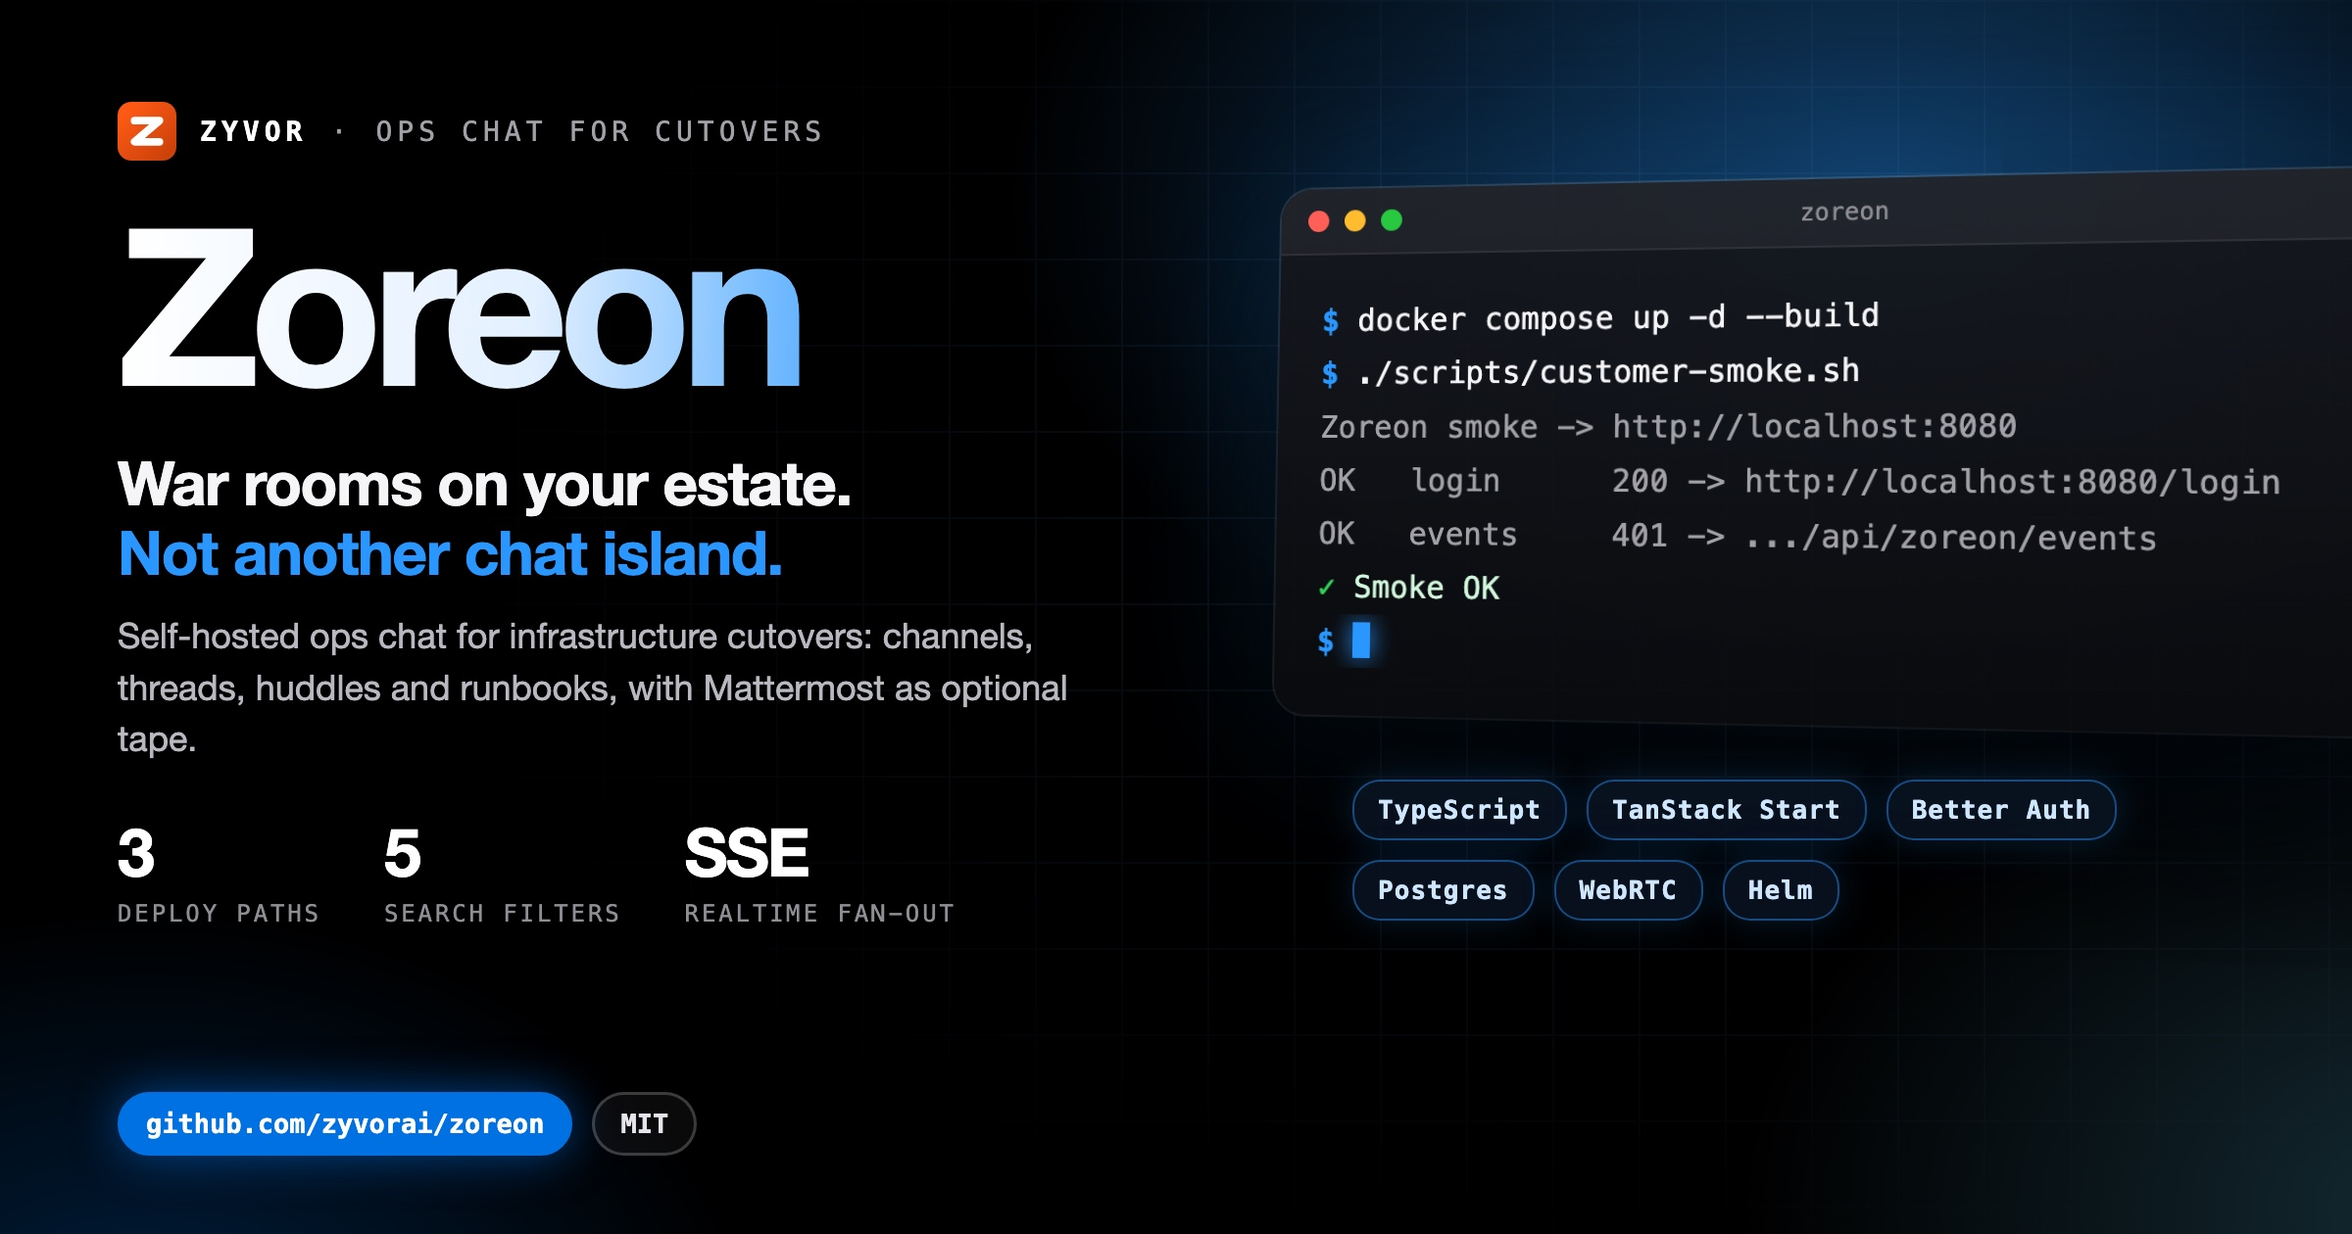
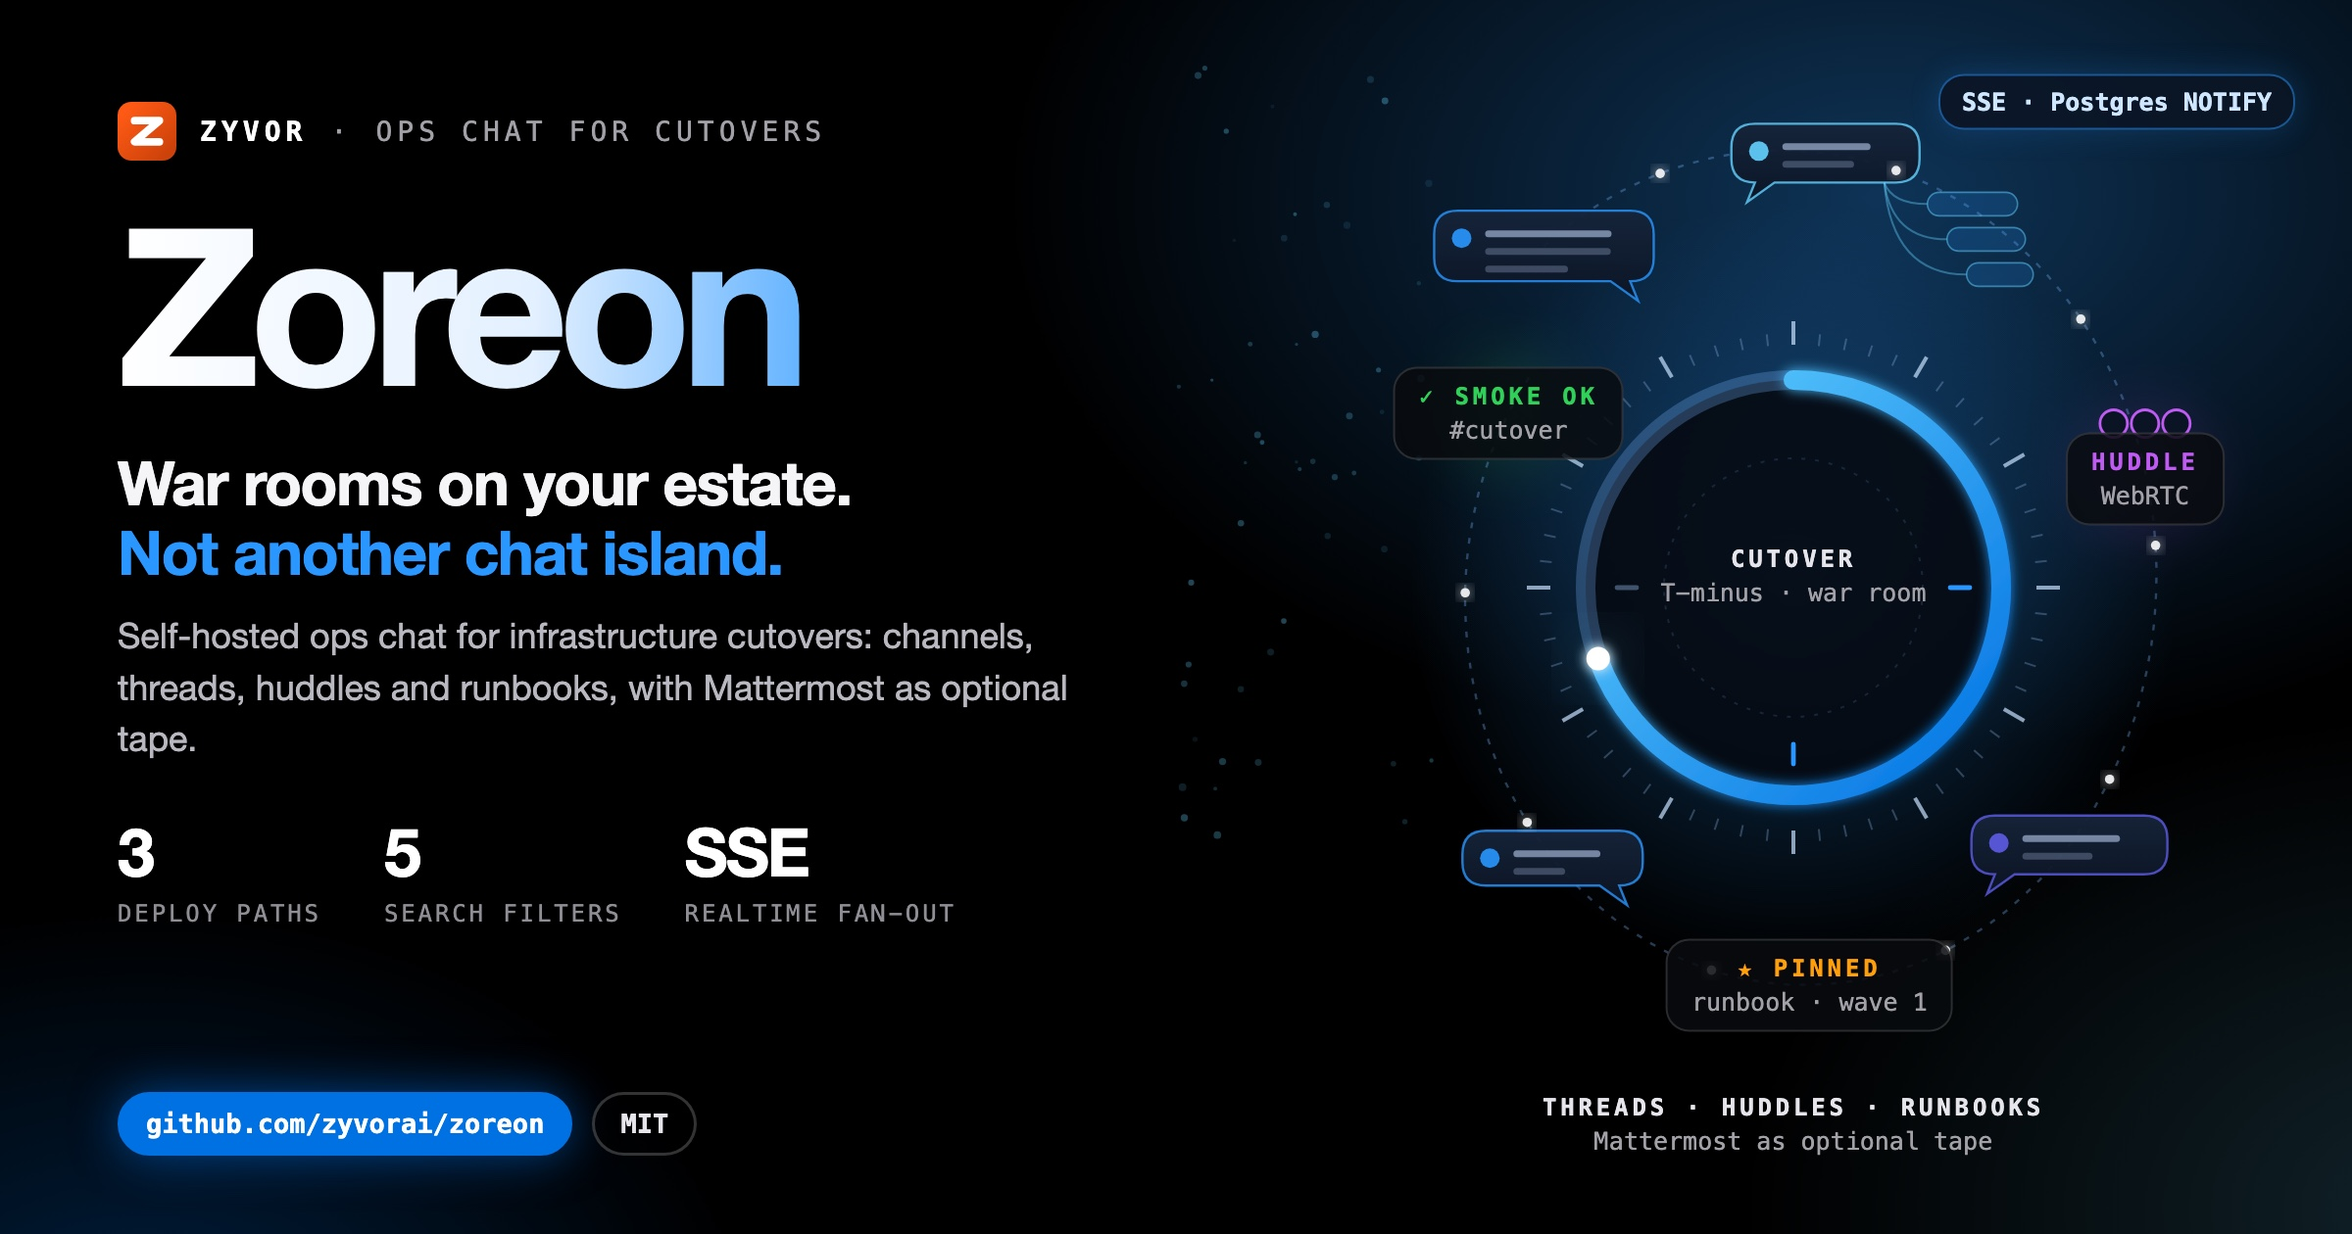
docs(social): unique illustrated hero card
Replace the shared terminal-window art with a motif drawn for this project;
same verified copy and stats on the left.

Changed region(s): [[0.5312, 0.0619, 1.0, 0.8357], [0.6562, 0.8667, 0.875, 0.9286]]

diff --git a/docs/social/zoreon-hero-dark.html b/docs/social/zoreon-hero-dark.html
@@ -8,58 +8,47 @@
   Build: ./docs/social/build-hero-dark.sh  ->  zoreon-hero-dark.jpg (2400x1260)
 -->
 <style>
-  :root { --blue:#0071e3; --signal:#2997ff; --cyan:#64d2ff; --green:#30d158; --amber:#ff9f0a;
+  :root { --blue:#0071e3; --signal:#2997ff; --cyan:#64d2ff; --green:#30d158; --amber:#ff9f0a; --red:#ff453a; --violet:#bf5af2;
     --sans:'SF Pro Display','Helvetica Neue',Helvetica,Arial,sans-serif; --mono:'SF Mono',Menlo,Consolas,monospace; }
   * { box-sizing:border-box; }
   html,body { margin:0; padding:0; }
   body { width:1200px; height:630px; overflow:hidden; color:#f5f5f7; font-family:var(--sans); position:relative; background:#000; }
   .aurora { position:absolute; inset:0;
-    background:radial-gradient(720px 460px at 80% 16%, rgba(41,151,255,.40), transparent 62%),
-               radial-gradient(600px 420px at 104% 98%, rgba(100,210,255,.20), transparent 60%),
+    background:radial-gradient(720px 460px at 80% 16%, rgba(41,151,255,.34), transparent 62%),
+               radial-gradient(600px 420px at 104% 98%, rgba(100,210,255,.16), transparent 60%),
                radial-gradient(520px 380px at 6% 110%, rgba(0,113,227,.28), transparent 60%); }
-  .grid { position:absolute; inset:0; opacity:.09;
-    background-image:linear-gradient(rgba(120,180,255,.9) 1px,transparent 1px),linear-gradient(90deg,rgba(120,180,255,.9) 1px,transparent 1px);
-    background-size:44px 44px; -webkit-mask-image:radial-gradient(900px 520px at 72% 42%, #000 18%, transparent 75%); }
-  .left { position:absolute; left:60px; top:52px; width:560px; z-index:3; }
+  .copy { position:absolute; left:60px; top:52px; width:560px; z-index:3; }
   .brand { display:flex; align-items:center; gap:12px; font-family:var(--mono); font-size:14px; letter-spacing:.18em; text-transform:uppercase; color:#a1a1a6; }
   .brand b { color:#fff; }
   .word { margin:20px 0 0; font-size:112px; line-height:.95; font-weight:800; letter-spacing:-.05em; white-space:nowrap;
     background:linear-gradient(92deg,#fff 0%,#e3f0ff 38%,var(--signal) 74%,var(--cyan) 100%); -webkit-background-clip:text; background-clip:text; color:transparent; padding-bottom:6px; }
   .tag { margin:14px 0 0; font-size:31px; line-height:1.15; font-weight:700; letter-spacing:-.02em; }
   .tag em { font-style:normal; color:var(--signal); }
-  .lede { margin:12px 0 0; font-size:18px; line-height:1.45; color:#b8b8bf; width:520px; }
+  .lede { margin:12px 0 0; font-size:18px; line-height:1.45; color:#b8b8bf; width:520px; text-shadow:0 1px 12px #000; }
   .stats { margin-top:24px; display:flex; gap:32px; }
   .stat b { display:block; font-size:34px; font-weight:800; letter-spacing:-.03em; color:#fff; }
   .stat span { font-family:var(--mono); font-size:12px; letter-spacing:.12em; text-transform:uppercase; color:#8e8e93; }
   .pill { position:absolute; left:60px; bottom:40px; display:flex; gap:10px; z-index:3; }
-  .pill span { font-family:var(--mono); font-size:13.5px; font-weight:700; padding:7px 13px; border-radius:18px; border:1.5px solid rgba(255,255,255,.2); color:#e5e5ea; background:rgba(255,255,255,.04); }
+  .pill span { font-family:var(--mono); font-size:13.5px; font-weight:700; padding:7px 13px; border-radius:18px; border:1.5px solid rgba(255,255,255,.2); color:#e5e5ea; background:rgba(0,0,0,.6); }
   .pill span.b { background:var(--blue); border-color:var(--blue); color:#fff; box-shadow:0 0 24px rgba(0,113,227,.55); }
-
-  .right { position:absolute; left:652px; top:96px; width:560px; z-index:2; }
-  .win { position:relative; width:560px; border-radius:16px; overflow:hidden; z-index:2;
-    background:linear-gradient(180deg, rgba(22,24,30,.94), rgba(10,11,14,.96));
-    box-shadow:0 50px 100px rgba(0,0,0,.75), 0 0 0 1px rgba(255,255,255,.14), 0 0 90px rgba(41,151,255,.22);
-    transform:perspective(1600px) rotateY(-14deg) rotateX(4deg); transform-origin:left center; }
-  .bar { height:34px; display:flex; align-items:center; gap:8px; padding:0 14px; background:rgba(255,255,255,.05); border-bottom:1px solid rgba(255,255,255,.07); }
-  .bar i { width:11px; height:11px; border-radius:50%; background:#ff5f57; } .bar i:nth-child(2){background:#febc2e} .bar i:nth-child(3){background:#28c840}
-  .bar em { margin-left:auto; margin-right:auto; font-style:normal; font-family:var(--mono); font-size:12px; color:#8e8e93; transform:translateX(-24px); }
-  .term { min-height:214px; padding:20px 22px 24px; font-family:var(--mono); font-size:15.5px; line-height:1.75; }
-  .l { white-space:pre; overflow:hidden; text-overflow:ellipsis; color:#f5f5f7; }
-  .l .p { color:var(--signal); font-weight:700; }
-  .l.out { color:#a1a1a6; }
-  .l.cm { color:#6e6e73; }
-  .l.ok { color:#d1f7dc; } .l.ok span { color:var(--green); font-weight:700; }
-  .l.warn { color:#ffe1b0; } .l.warn span { color:var(--amber); font-weight:700; }
-  .cur { display:inline-block; width:9px; height:18px; background:var(--signal); vertical-align:-3px; box-shadow:0 0 12px var(--signal); }
-  .chips { margin:34px 0 0 38px; width:480px; display:flex; flex-wrap:wrap; gap:10px; position:relative; z-index:3; }
-  .chips span { font-family:var(--mono); font-size:13px; font-weight:700; letter-spacing:.04em; padding:7px 12px; border-radius:14px;
-    color:#cfe6ff; background:rgba(10,20,35,.82); border:1px solid rgba(41,151,255,.45); box-shadow:0 0 18px rgba(41,151,255,.18); }
+  .art { position:absolute; left:520px; top:0; width:680px; height:630px; z-index:2; }
+  .art svg { display:block; }
+  #labels { position:absolute; inset:0; z-index:4; pointer-events:none; }
+  .lbl { position:absolute; font-family:var(--mono); font-size:12.5px; color:#a1a1a6; text-align:center; transform:translate(-50%,-50%); white-space:nowrap; }
+  .lbl b { display:block; font-size:12px; letter-spacing:.16em; text-transform:uppercase; color:#e5e5ea; }
+  .lbl span { display:block; margin-top:3px; }
+  .lbl.box { padding:7px 12px; border-radius:12px; background:rgba(8,10,14,.85); border:1px solid rgba(255,255,255,.14); }
+  .lbl.chip { padding:6px 11px; border-radius:13px; font-size:12.5px; font-weight:700; color:#cfe6ff; background:rgba(10,20,35,.85); border:1px solid rgba(41,151,255,.5); box-shadow:0 0 16px rgba(41,151,255,.2); }
+  .lbl.left { transform:translate(0,-50%); text-align:left; }
+  .lbl.right { transform:translate(-100%,-50%); text-align:right; }
+  .ok { color:var(--green) !important; } .warn { color:var(--amber) !important; } .bad { color:var(--red) !important; } .sig { color:var(--signal) !important; } .cy { color:var(--cyan) !important; } .vi { color:var(--violet) !important; }
 </style>
 </head>
 <body>
 <div class="aurora"></div>
-<div class="grid"></div>
-<div class="left">
+<div class="art"><svg id="art" width="680" height="630" viewBox="0 0 680 630" xmlns="http://www.w3.org/2000/svg"></svg></div>
+<div id="labels"></div>
+<div class="copy">
   <div class="brand"><svg viewBox="0 0 64 64" width="30" height="30" aria-hidden="true"><defs><linearGradient id="zb" x1="8" y1="8" x2="56" y2="56" gradientUnits="userSpaceOnUse"><stop offset="0" stop-color="#ff5a15"/><stop offset="1" stop-color="#cc420a"/></linearGradient></defs><rect width="64" height="64" rx="15" fill="url(#zb)"/><path d="M18.5,20.5 45.5,20.5 18.5,43.5 45.5,43.5" fill="none" stroke="#fff" stroke-width="8.3" stroke-linecap="round" stroke-linejoin="round"/></svg><b>Zyvor</b><span>&middot;</span><span>Ops chat for cutovers</span></div>
   <div class="word">Zoreon</div>
   <div class="tag">War rooms on your estate.<br><em>Not another chat island.</em></div>
@@ -67,8 +56,118 @@
   <div class="stats"><div class="stat"><b>3</b><span>deploy paths</span></div><div class="stat"><b>5</b><span>search filters</span></div><div class="stat"><b>SSE</b><span>realtime fan-out</span></div></div>
 </div>
 <div class="pill"><span class="b">github.com/zyvorai/zoreon</span><span>MIT</span></div>
-<div class="right"><div class="win"><div class="bar"><i></i><i></i><i></i><em>zoreon</em></div>
-<div class="term"><div class="l"><span class="p">$</span> docker compose up -d --build</div><div class="l"><span class="p">$</span> ./scripts/customer-smoke.sh</div><div class="l out">Zoreon smoke -&gt; http://localhost:8080</div><div class="l out">OK   login      200 -&gt; http://localhost:8080/login</div><div class="l out">OK   events     401 -&gt; .../api/zoreon/events</div><div class="l ok"><span>&#10003;</span> Smoke OK</div><div class="l"><span class="p">$</span> <i class="cur"></i></div></div></div>
-<div class="chips"><span>TypeScript</span><span>TanStack Start</span><span>Better Auth</span><span>Postgres</span><span>WebRTC</span><span>Helm</span></div></div>
+<script>
+var Z = (function () {
+  var NS = 'http://www.w3.org/2000/svg', svg = document.getElementById('art'), labels = document.getElementById('labels');
+  var seed = 20261004;
+  function rnd() { seed = (seed * 1103515245 + 12345) % 2147483648; return seed / 2147483648; }
+  function el(tag, a, parent) { var n = document.createElementNS(NS, tag); for (var k in a) n.setAttribute(k, a[k]); (parent || svg).appendChild(n); return n; }
+  function g(attrs) { return el('g', attrs || {}); }
+  function label(x, y, inner, cls, style) { var d = document.createElement('div'); d.className = 'lbl ' + (cls || ''); d.style.left = (520 + x) + 'px'; d.style.top = y + 'px'; if (style) d.setAttribute('style', d.getAttribute('style') + ';' + style); d.innerHTML = inner; labels.appendChild(d); return d; }
+  return { NS: NS, svg: svg, W: 680, H: 630, rnd: rnd, el: el, g: g, label: label,
+    reseed: function (s) { seed = s; },
+    c: { blue: '#0071e3', signal: '#2997ff', cyan: '#64d2ff', green: '#30d158', amber: '#ff9f0a', red: '#ff453a', violet: '#bf5af2', teal: '#40c8e0', indigo: '#5e5ce6', pink: '#ff375f', white: '#f5f5f7', grey: '#8e8e93' } };
+})();
+(function () {
+// Zoreon: cutover countdown ring. Chat bubbles and reply threads cascade around the clock; a huddle,
+// a pinned message and the smoke check sit on the spiral.
+var C = Z.c, cx = 395, cy = 300, R = 106;
+var d = Z.el('defs', {});
+d.innerHTML = '<filter id="zrgl" x="-50%" y="-50%" width="200%" height="200%"><feGaussianBlur stdDeviation="3.2" result="b"/><feMerge><feMergeNode in="b"/><feMergeNode in="SourceGraphic"/></feMerge></filter>' +
+  '<filter id="zrsf" x="-80%" y="-80%" width="260%" height="260%"><feGaussianBlur stdDeviation="16"/></filter>' +
+  '<linearGradient id="zrarc" x1="0" y1="0" x2="1" y2="1"><stop offset="0" stop-color="#64d2ff"/><stop offset="1" stop-color="#0071e3"/></linearGradient>' +
+  '<radialGradient id="zrcore"><stop offset="0" stop-color="#2997ff" stop-opacity=".35"/><stop offset="1" stop-color="#2997ff" stop-opacity="0"/></radialGradient>' +
+  '<linearGradient id="zrbub" x1="0" y1="0" x2="0" y2="1"><stop offset="0" stop-color="#16243a" stop-opacity=".95"/><stop offset="1" stop-color="#0b1424" stop-opacity=".95"/></linearGradient>';
+
+function pol(r, deg) { var a = (deg - 90) * Math.PI / 180; return [cx + r * Math.cos(a), cy + r * Math.sin(a)]; }
+function arc(r, d0, d1) { var a = pol(r, d0), b = pol(r, d1); return 'M' + a[0].toFixed(1) + ',' + a[1].toFixed(1) + ' A' + r + ',' + r + ' 0 ' + ((d1 - d0) > 180 ? 1 : 0) + ' 1 ' + b[0].toFixed(1) + ',' + b[1].toFixed(1); }
+
+Z.el('circle', { cx: cx, cy: cy, r: R + 90, fill: 'url(#zrcore)' });
+// faint message-dot texture
+for (var k = 0; k < 50; k++) Z.el('circle', { cx: 80 + Z.rnd() * 140, cy: 30 + Z.rnd() * 400, r: .8 + Z.rnd() * 1.2, fill: C.cyan, opacity: (.08 + Z.rnd() * .25).toFixed(2) });
+
+function onSpiral(t) { var deg = -40 + t * 345, r = 198 - t * 34, a = (deg - 90) * Math.PI / 180; return [cx + r * Math.cos(a), cy + r * 1.15 * Math.sin(a)]; }
+// thread spiral behind everything
+var spiral = '';
+for (var t = 0; t <= 1.001; t += 0.01) {
+  var p = onSpiral(t);
+  spiral += (t === 0 ? 'M' : ' L') + p[0].toFixed(1) + ',' + p[1].toFixed(1);
+}
+var sp = Z.el('path', { d: spiral, fill: 'none', stroke: 'rgba(120,185,255,.32)', 'stroke-width': 1.2, 'stroke-dasharray': '3 5' });
+
+// clock ring: ticks
+for (var i = 0; i < 60; i++) {
+  var big = i % 5 === 0, a = pol(R + 18, i * 6), b = pol(R + (big ? 30 : 24), i * 6);
+  Z.el('line', { x1: a[0], y1: a[1], x2: b[0], y2: b[1], stroke: big ? 'rgba(200,225,255,.7)' : 'rgba(150,190,240,.3)', 'stroke-width': big ? 2 : 1 });
+}
+Z.el('circle', { cx: cx, cy: cy, r: R, fill: 'rgba(6,10,18,.9)', stroke: 'rgba(120,185,255,.18)', 'stroke-width': 10 });
+// countdown: remaining time bright, elapsed dim
+var rem = 250;
+Z.el('path', { d: arc(R, rem, 359.9), fill: 'none', stroke: 'rgba(120,185,255,.12)', 'stroke-width': 10 });
+Z.el('path', { d: arc(R, 0, rem), fill: 'none', stroke: 'url(#zrarc)', 'stroke-width': 10, 'stroke-linecap': 'round', filter: 'url(#zrgl)' });
+var hd = pol(R, rem);
+Z.el('circle', { cx: hd[0], cy: hd[1], r: 9, fill: C.cyan, opacity: .35, filter: 'url(#zrsf)' });
+Z.el('circle', { cx: hd[0], cy: hd[1], r: 6, fill: '#fff', filter: 'url(#zrgl)' });
+// wave notches on the inner ring
+[90, 180, 270].forEach(function (w, n) {
+  var a = pol(R - 16, w), b = pol(R - 26, w);
+  Z.el('line', { x1: a[0], y1: a[1], x2: b[0], y2: b[1], stroke: w < rem ? C.signal : 'rgba(150,190,240,.4)', 'stroke-width': 2.4, 'stroke-linecap': 'round' });
+});
+Z.el('circle', { cx: cx, cy: cy, r: R - 40, fill: 'none', stroke: 'rgba(120,185,255,.15)', 'stroke-dasharray': '2 5' });
+Z.label(cx, cy - 6, '<b>cutover</b><span>T-minus &middot; war room</span>');
+
+// bubbles
+function bubble(x, y, w, h, tail, accent, lines) {
+  var r = 12, x0 = x - w / 2, y0 = y - h / 2, x1 = x + w / 2, y1 = y + h / 2, tx = tail < 0 ? x0 + 18 : x1 - 18;
+  var dpath = 'M' + (x0 + r) + ',' + y0 + ' H' + (x1 - r) + ' Q' + x1 + ',' + y0 + ' ' + x1 + ',' + (y0 + r) + ' V' + (y1 - r) + ' Q' + x1 + ',' + y1 + ' ' + (x1 - r) + ',' + y1 +
+    (tail > 0 ? ' L' + (tx + 6) + ',' + y1 + ' L' + (tx + 10) + ',' + (y1 + 10) + ' L' + (tx - 4) + ',' + y1 : '') +
+    (tail < 0 ? ' L' + (tx + 4) + ',' + y1 + ' L' + (tx - 10) + ',' + (y1 + 10) + ' L' + (tx - 6) + ',' + y1 : '') +
+    ' H' + (x0 + r) + ' Q' + x0 + ',' + y1 + ' ' + x0 + ',' + (y1 - r) + ' V' + (y0 + r) + ' Q' + x0 + ',' + y0 + ' ' + (x0 + r) + ',' + y0 + 'Z';
+  Z.el('path', { d: dpath, fill: 'url(#zrbub)', stroke: accent, 'stroke-width': 1.2, 'stroke-opacity': .8 });
+  Z.el('circle', { cx: x0 + 14, cy: y0 + 14, r: 5, fill: accent, opacity: .9 });
+  for (var l = 0; l < lines; l++) {
+    var lw = (w - 46) * (l === lines - 1 ? .55 + Z.rnd() * .2 : .85 + Z.rnd() * .15);
+    Z.el('rect', { x: x0 + 26, y: y0 + 10 + l * 9, width: lw.toFixed(1), height: 3.5, rx: 1.75, fill: 'rgba(200,220,255,' + (l === 0 ? '.55' : '.25') + ')' });
+  }
+}
+var plain = [
+  [-48, 0, 112, 36, 1, C.signal, 3],
+  [20, 0, 96, 30, -1, C.cyan, 2],
+  [150, 0, 100, 30, -1, C.indigo, 2],
+  [258, 0, 92, 28, 1, C.signal, 2]
+];
+// position bubbles on the spiral
+var tvals = [0, 0.13, 0.49, 0.77];
+plain.forEach(function (b, n) { var p = onSpiral(tvals[n]); bubble(p[0], p[1], b[2], b[3], b[4], b[5], b[6]); });
+
+// reply-thread fan off the second bubble
+var pa = onSpiral(0.13);
+for (var r = 0; r < 3; r++) {
+  var rx = pa[0] + 70 + r * 10, ry = pa[1] + 26 + r * 18;
+  Z.el('path', { d: 'M' + (pa[0] + 30) + ',' + (pa[1] + 15) + ' Q' + (pa[0] + 34) + ',' + ry + ' ' + (rx - 18) + ',' + ry, fill: 'none', stroke: 'rgba(100,210,255,.4)', 'stroke-width': 1 });
+  Z.el('rect', { x: rx - 18, y: ry - 6, width: 46 - r * 6, height: 12, rx: 6, fill: 'rgba(41,151,255,.18)', stroke: 'rgba(100,210,255,.5)', 'stroke-width': .8 });
+}
+
+// labelled bubbles: huddle, pinned, smoke OK
+var ph = onSpiral(0.33);
+Z.el('circle', { cx: ph[0], cy: ph[1], r: 34, fill: C.violet, opacity: .15, filter: 'url(#zrsf)' });
+[0, 1, 2].forEach(function (n) { Z.el('circle', { cx: ph[0] - 16 + n * 16, cy: ph[1] - 24, r: 7, fill: '#0b1424', stroke: C.violet, 'stroke-width': 1.4 }); });
+Z.label(ph[0], ph[1] + 4, '<b class="vi">huddle</b><span>WebRTC</span>', 'box');
+
+var pp = onSpiral(0.63);
+Z.label(pp[0], pp[1], '<b class="warn">&#9733; pinned</b><span>runbook &middot; wave 1</span>', 'box');
+
+var ps = onSpiral(0.98);
+Z.el('circle', { cx: ps[0], cy: ps[1], r: 30, fill: C.green, opacity: .14, filter: 'url(#zrsf)' });
+Z.label(ps[0], ps[1], '<b class="ok">&#10003; Smoke OK</b><span>#cutover</span>', 'box');
+
+// SSE fan-out: sparks along the spiral
+var L = sp.getTotalLength();
+for (var k = 0; k < 9; k++) { var q = sp.getPointAtLength(L * (0.06 + k * 0.105)); Z.el('circle', { cx: q.x, cy: q.y, r: 2.4, fill: '#fff', filter: 'url(#zrgl)', opacity: .9 }); }
+
+Z.label(560, 52, 'SSE &middot; Postgres NOTIFY', 'chip');
+Z.label(cx, 574, '<b>threads &middot; huddles &middot; runbooks</b><span>Mattermost as optional tape</span>');
+})();
+</script>
 </body>
 </html>
